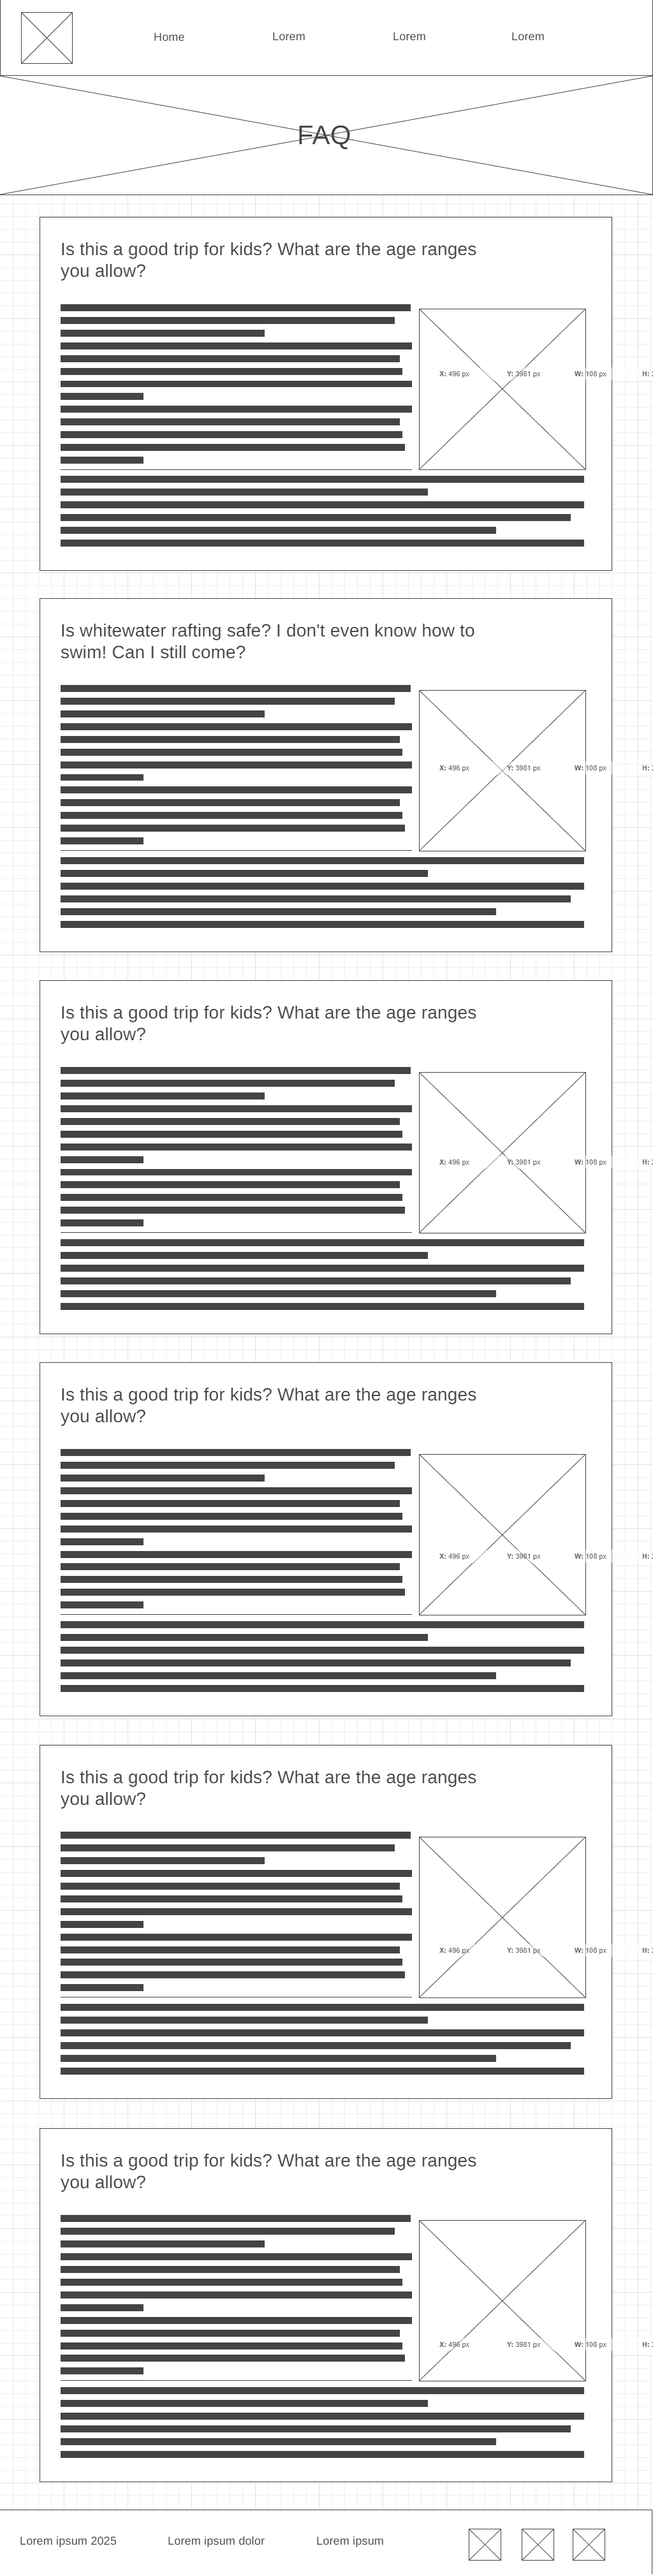
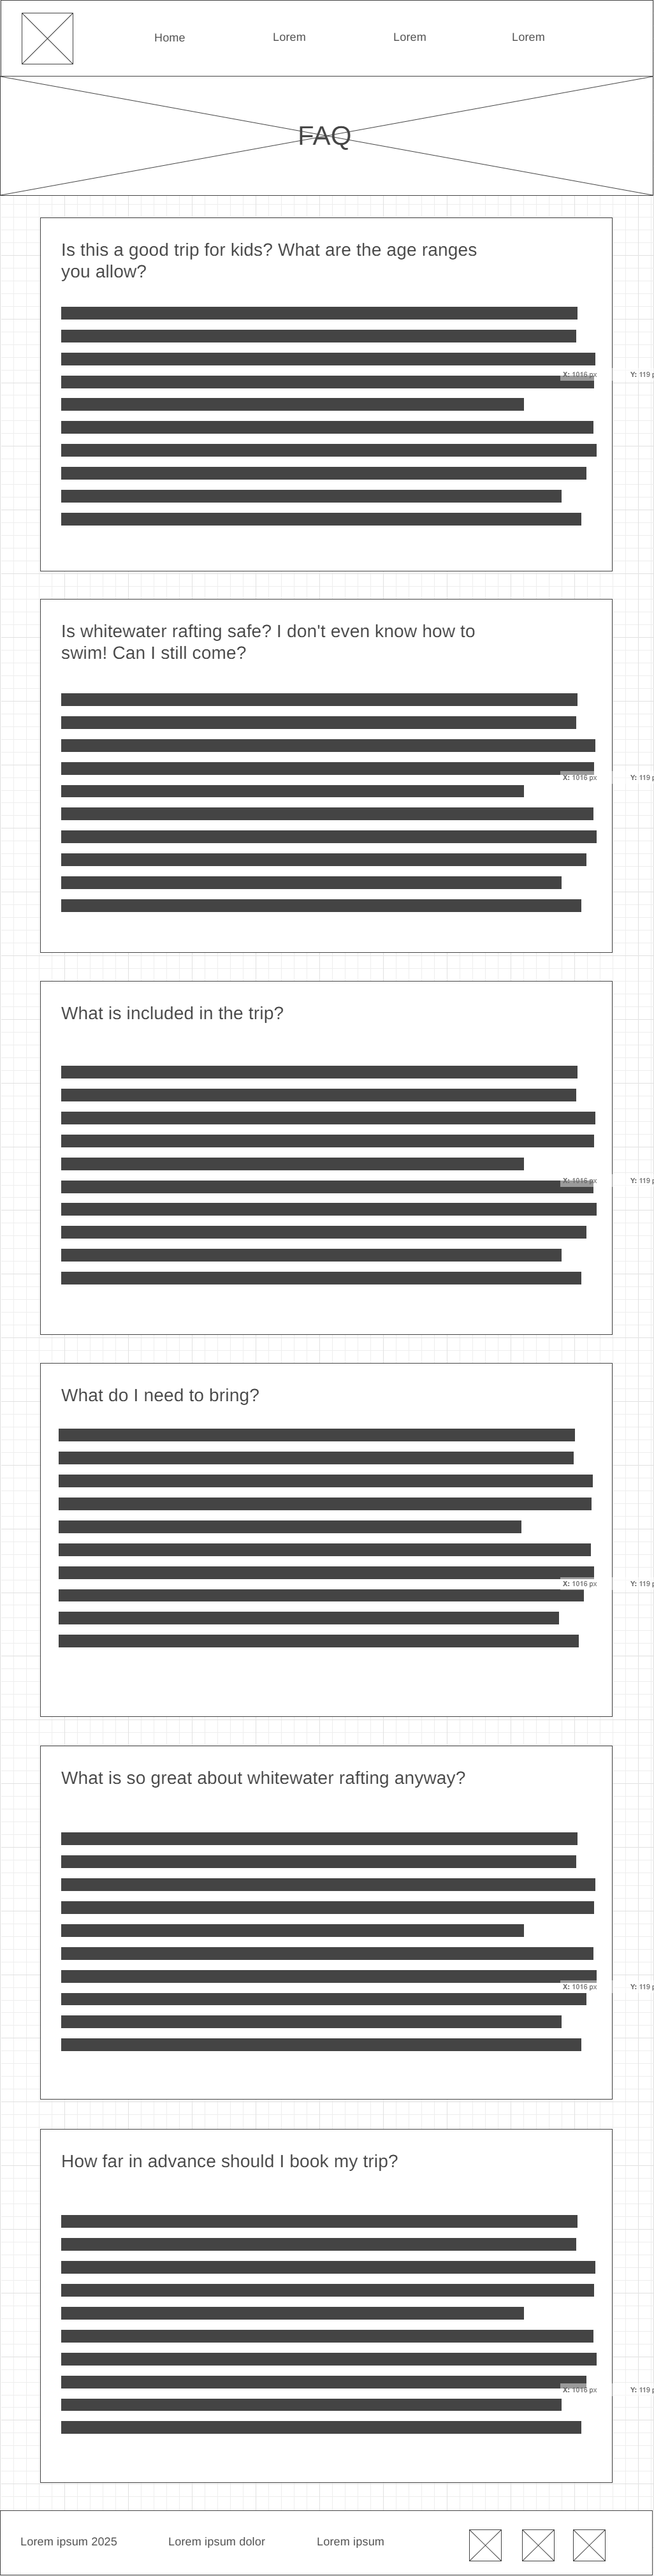
finished faq page

diff --git a/wwr/faq-wwr.html b/wwr/faq-wwr.html
@@ -1,0 +1,92 @@
+<!DOCTYPE html>
+<html lang="en">
+<head>
+    <meta charset="UTF-8">
+    <meta name="viewport" content="width=device-width, initial-scale=1.0">
+    <title>Whitewater Rafting Vacations | Dry Oar Boating | Home</title>
+    <link rel="stylesheet" href="styles/style.css">
+</head>
+<body>
+    <div id="content">
+        <header>
+            <a id="logo_link" href="index.html" target="_blank">
+                <img class = "logo" src ='images/logo.png' alt="Dry Oar Logo">
+            </a>
+            <nav>
+                <a href="index.html" target="_blank">Home</a>
+                <a href="faq-wwr.html" target="_blank">FAQ</a>
+                <a href="site-plan-rafting.html" target="_blank">Site Plan</a>
+                <a href="contactus.html" target="_blank">Contact Us</a>
+            </nav>
+        </header>
+
+
+        <div id="faqhero">
+            <img id="faqheroimg" src="images/faqhero.jpg">
+            <h1 id="herotitle">Frequently Asked Questions</h1>
+        </div>
+        
+        <div id="faqcontent">
+            <h2>Is this a good trip for kids? What are the age ranges you allow?</h2>
+            <p>Absolutely this is a good trip for children of all ages. We have found however that children over the age of 8 seem to enjoy it more overall (And parents especially enjoy it more if their children are all over 8). A common concern we get from parents is that their children will be bored stuck on a boat for hours at a time. Surprisingly we deal with very few bored children of any age. The areas we are rafting through are some of the most beautiful in the world, and you never know what you might see around any corner. Not to mention the rapids which keep things very interesting. Each boat also comes equipped with a guide. It has been proven that river guides are unable to go for very long at all without telling stories...some of which are even true!</p>
+        </div>
+        <div id="emptyspace"></div>
+        <div id="faqcontent">
+            <h2>Is whitewater rafting safe? I don't even know how to swim! Can I still come?</h2>
+            <p>As with all adventure sports, there is an inherent and assumed element of risk. To help ensure your safety, our guides are all certified in Wilderness First aid and all start with at least 3 years of rafting experience. The most common injuries are sunburns and injuries that occur on land.
+            Everyone on commercial rafting trips wears coast guard approved life vest or personal flotation device (PFD). Many non swimmers go on rafting trips and have a great time. Your guide will give you an in depth and engaging safety talk before your trip begins explaining what you should prepare for and do in the event that you fall out of the raft.</p>
+        </div>
+        <div id="emptyspace"></div>
+        <div id="faqcontent">
+            <h2>What is included in the trip?</h2>
+            <P>We will provide all necessary camping equipment. This includes a sleeping bag, foam pad, waterproof duffle bag, small waterproof day bag, tent and a cot, eating utensils and camping chair.
+            We provided water and lemonade during the day. Coffee, tea and hot chocolate are provided during the morning and evening hours. You may bring beer, liquor and soft drinks (in reasonable amounts, 2 cans per day). You may purchase these items either the night before the trip, or on your way to the put-in. 3 meals per day, plus snacks</P>
+        </div>
+        <div id="emptyspace"></div>
+        <div id="faqcontent">
+            <h2>What do I need to bring?</h2>
+            <p>The most effective way to plan for temperature and weather changes in the Canyon is to be prepared for both hot & dry and cold & wet Rain jacket and rain pants- do not bring ponchos Quick dry shirts and shorts long sleeve cotton shirt and pants- helps keep you cooler on hot days. Button down shirts provide more sun protection on the neck Light Weight Cotton Pant, Nylon Pant or Sarong the best thing for men to wear are swim trunks as shorts if you are cold natured, bring polypropylene long underwear top and bottom Women wear swim suits or quick dry underwear and sport bras as a base layer during the day. Over the base layer, wear a pair of quick dry shorts and the shirt of your choice (polypropylene if you are cold, cotton if you are hot). Two piece swim suits are convenient when changing or going to the bathroom. hat- large brim hat offers protection from the sun with a good quality strap. Sunglasses with strap socks- used for hiking and to protect your feet from the sun. sandals or water shoes- if not used to hiking in these, bring a pair of shoes you have hiked in before camper wear: Bring something comfortable to wear around camp. Cotton dresses, skirts and sarongs are all popular options. Sleep wear: You might choose to sleep in your camp wear. Otherwise, you might like to bring something comfortable to sleep in. water bottle small day pack for hikes moisturizing lotion headlamp or flashlight moleskin waterproof sunscreen and lip balm optional items: gloves fleece jacket towel bandana small pillow hygiene products: toothpaste, toothbrush, tissue, nail clippers, feminine hygiene products, extra eyeglasses or contacts, biodegradable soap and shampoo camera equipment book, watercolors, journal and pen </p>
+        </div>
+        <div id="emptyspace"></div>
+        <div id="faqcontent">
+            <h2>What is so great about whitewater rafting anyway?</h2>
+            <p>Are you kidding me! What's not great about whitewater rafting!...Let's describe a common day on the river.
+            Arise in the soft light of the early morning after a night spent sleeping under a beautiful starry sky. Have a hearty warm breakfast of fresh blueberry pancakes or omelets to order, then pack your things and prepare for the day. The day is filled with some combination of swift water, rapids, calms, hikes, history, geology, stories, and more good food. We try to hit camp around 4 or 5, after setting up your cot you can relax with a good book or good company by the river, or explore around camp while your guides prepare your dinner...something perhaps like steak and potatoes, or grilled salmon...and dutch oven brownies...you won't forget the dutch oven brownies. After dinner it's more relaxing, and you might even be able to talk your guide into another story or two to send you off to bed under more stars than you thought were possible.</p>
+        </div>
+        <div id="emptyspace"></div>
+        <div id="faqcontent">
+            <h2>How far in advance should I book my trip?</h2>
+            <p>If you have specific dates you need, we recommend booking a year in advance. If you can be more flexible 6 months in advance is usually sufficient.</p>    
+        </div>
+        
+        
+        
+        
+        
+        
+
+
+
+        </main>
+        
+        <footer>
+            <p>Dry Oar &copy; 2023 Jaron Andrus</p>
+            <p><a href="site-plan-rafting.html" target="_blank">Site Plan</a></p>
+            <p><a href="contactus.html" target="_blank">Contact Us</a></p>
+            <div class="social">
+                <a href="https://facebook.com" target="_blank">
+                    <img src="images/facebook.png" alt="fb icon">
+                </a>
+                <a href="https://twitter.com" target="_blank">
+                    <img src="images/twitter.png" alt="twitter icon">
+                </a>
+                <a href="https://instagram.com" target="_blank">
+                    <img src="images/instagram.png" alt="instagram icon">
+                </a>
+            </div>
+        </footer>
+    
+
+    </div>
+</body>
+</html>

diff --git a/ICE/W09.html b/ICE/W09.html
@@ -1,0 +1,20 @@
+<!DOCTYPE html>
+<html lang="en">
+<head>
+    <meta charset="UTF-8">
+    <meta name="viewport" content="width=device-width, initial-scale=1.0">
+    <title>W09</title>
+    <link href="W09-stlye.css" rel="stylesheet">
+</head>
+<body>
+    <div>
+        <img src = "w09_ice_img.jpg">
+        <h2>3 Weeks Ago</h2>
+        <h1>Post Three</h1>
+        <p id = "maintext">Lorem ipsum dolor sit amet, consectetur adipiscing elit, sed do eiusmod tempor incididunt ut labore et dolore magna aliqua. Ut enim ad minim veniam, quis nostrud exercitation ullamco laboris nisi ut aliquip ex ea commodo consequat. Duis aute irure dolor in reprehenderit in voluptate velit esse cillum dolore eu fugiat nulla pariatur. Excepteur sint occaecat cupidatat non proident, sunt in culpa qui officia deserunt mollit anim id est laborum.</p>
+        <p id = "bottom">5m<br>READ</p>
+        <p id = "bottom2">2031<br>VIEWS</p>
+        <p id = "bottom">15<br>COMMENTS</p>
+    </div>
+</body>
+</html>

diff --git a/ICE/W09-stlye.css b/ICE/W09-stlye.css
@@ -1,0 +1,63 @@
+
+
+body
+{
+
+background-color: black;
+text-align: center;
+display: flex;
+align-items: center;
+justify-content: center;
+margin:0;
+font-family: Arial, Helvetica, sans-serif;
+
+}
+
+div{
+    display: grid;
+    grid-template-columns: 100px 100px 100px;
+    /* grid-template-rows: auto,auto,auto,auto,auto,auto; */
+    background-color: white;
+    
+}
+
+img{
+    grid-column: 1/4;
+
+    grid-row: 1/3;
+}
+
+h1{
+    grid-column: 1/4;
+    grid-row: 4/5;
+    margin-top: 0px;
+    
+}
+h2{
+    grid-column: 1/4;
+    grid-row: 3/4
+}
+#maintext{
+    grid-column: 1/4;
+    grid-row: 5/6 
+}
+
+#bottom{
+    background-color: darkblue;
+    color: white;
+    height: 65px;
+    padding-top: 25px
+}
+
+#bottom2{
+    border-left: 1px;
+    border-right: 1px;
+    border-color: white;
+    border-style: none solid none solid;
+    
+    background-color: darkblue;
+    color: white;
+    height: 65px;
+    padding-top: 25px;
+    
+}

diff --git a/wwr/styles/style.css b/wwr/styles/style.css
@@ -242,6 +242,46 @@ h4 {
 }
 
 
+/* -----------------------------------------------FAQ page-------------------------------------------------- */
+
+
+#faqhero{
+    text-align: center;
+    display: grid;
+    grid-template-columns: 1fr;
+    grid-template-rows: 600px;
+    margin-top: -100px;
+    
+    
+}
+
+#faqheroimg{
+    width: 100%;
+    grid-column: 1/2;
+    grid-row: 1/2;
+    z-index: -2;
+}
+
+#herotitle{
+    grid-column: 1/2;
+    grid-row: 1/2;
+    margin: auto;
+    color: white;
+    filter: drop-shadow(0px 0px 5px black);
+    z-index: 1;
+}
+
+#faqcontent{
+    margin: auto;
+    width: 70%;
+    line-height: 1.5;
+    background-color: #FCE172;
+    padding: 30px;
+    
+}
+#emptyspace{
+    height: 50px;
+}
 
 
 @media screen and (max-width: 900px) {

diff --git a/wwr/index.html b/wwr/index.html
@@ -14,7 +14,7 @@
             </a>
             <nav>
                 <a href="index.html" target="_blank">Home</a>
-                <a href="#" target="_blank">Page 2</a>
+                <a href="faq-wwr.html" target="_blank">FAQ</a>
                 <a href="site-plan-rafting.html" target="_blank">Site Plan</a>
                 <a href="contactus.html" target="_blank">Contact Us</a>
             </nav>
